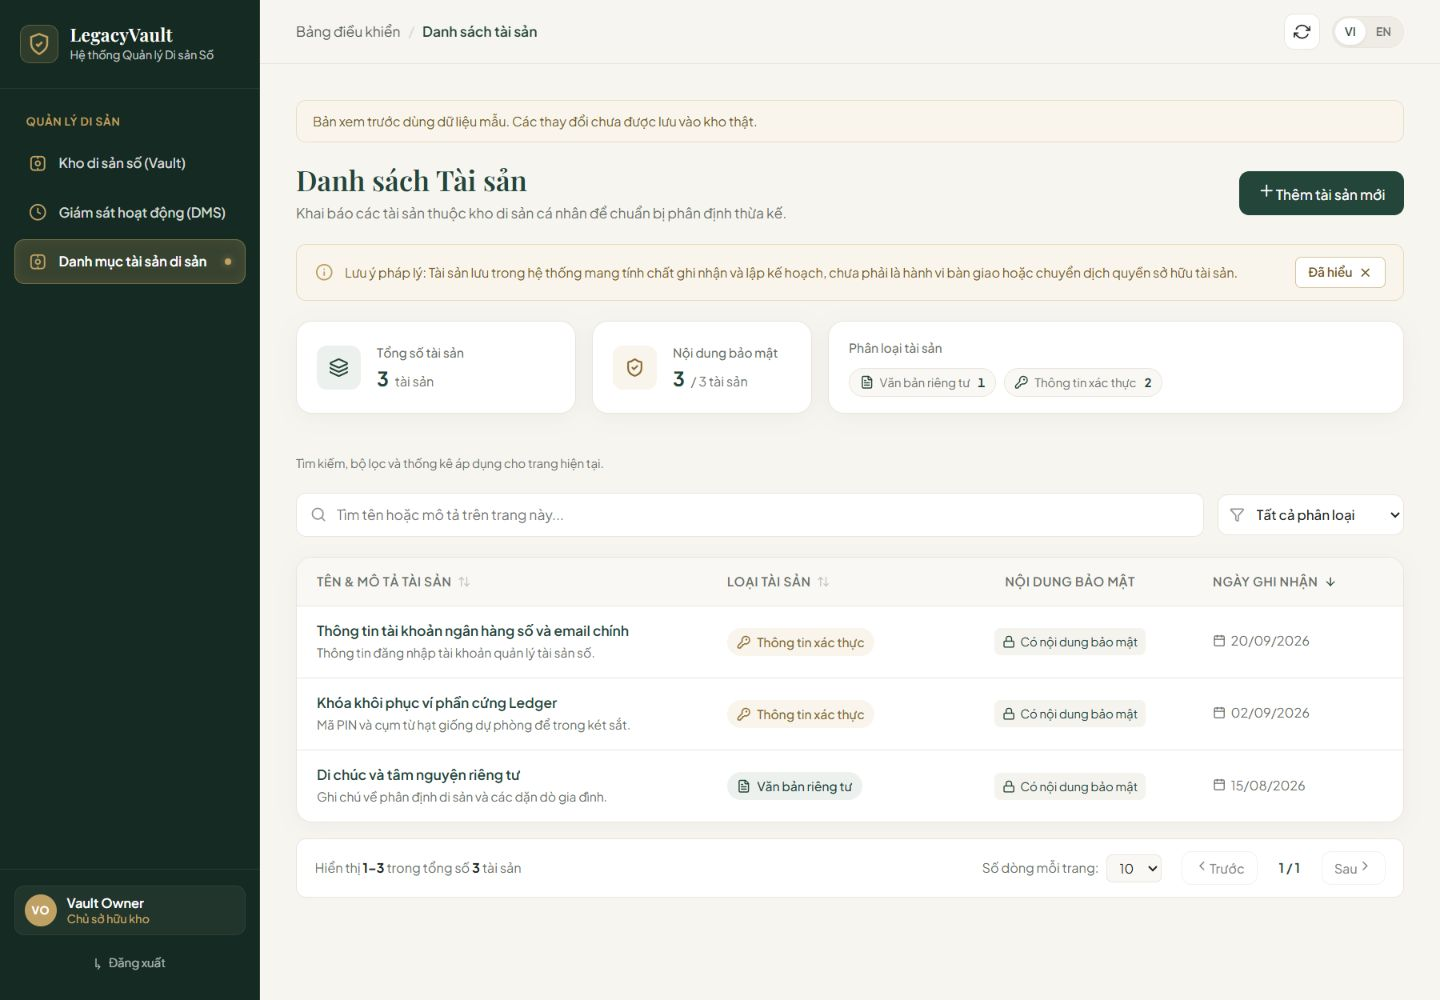
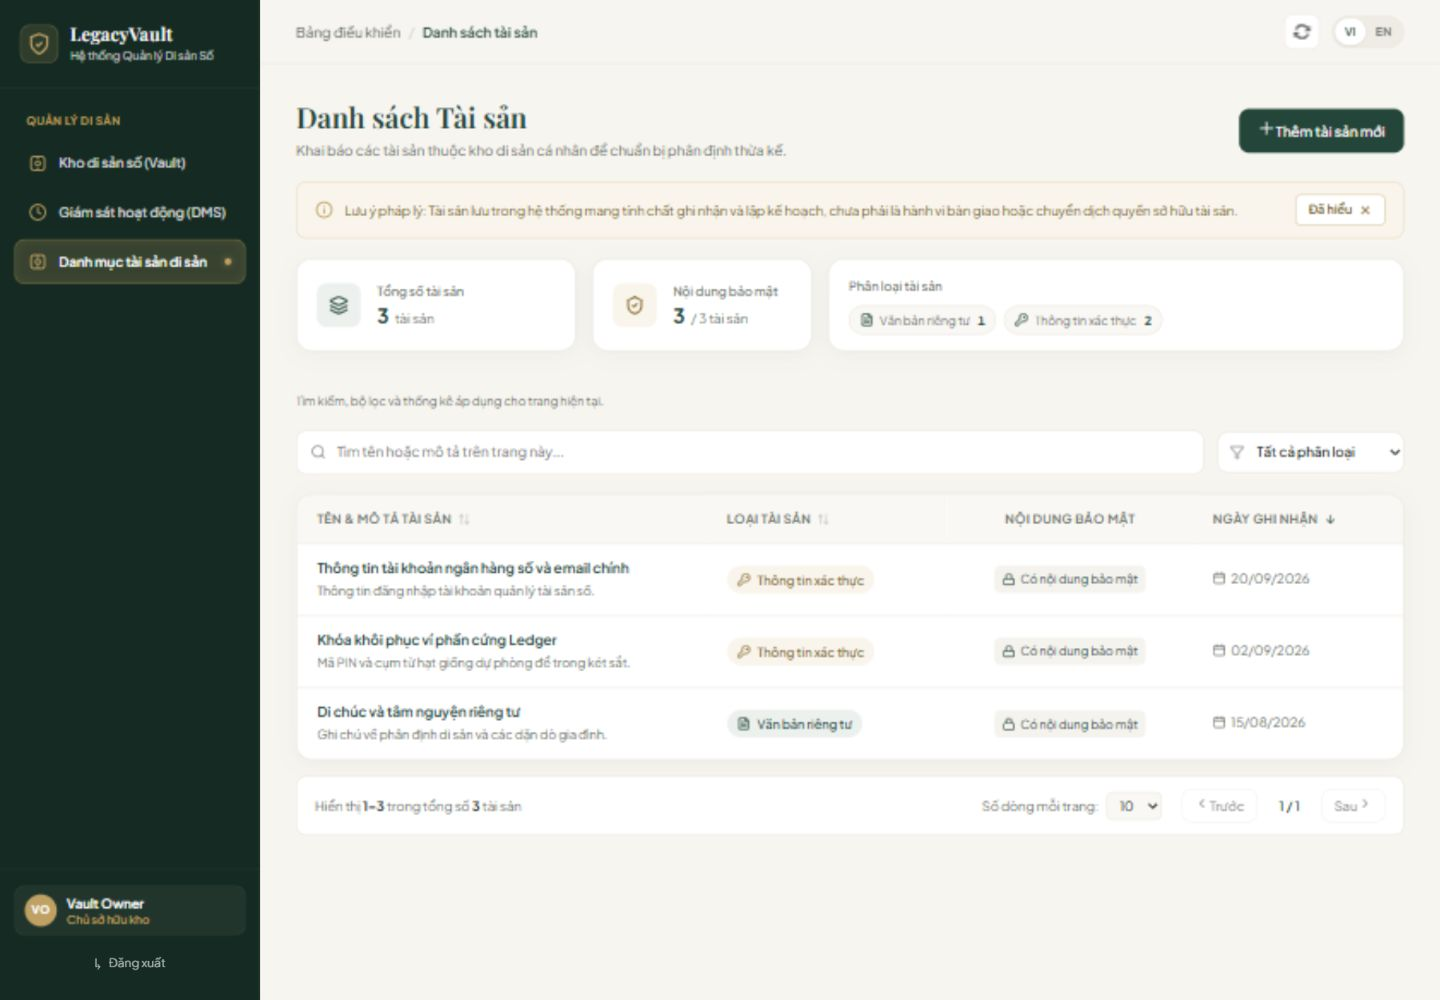
style(PS-5): remove preview copy from presentation UI

diff --git a/frontend/src/i18n/translations.js b/frontend/src/i18n/translations.js
@@ -16,7 +16,6 @@ export const translations = {
     },
     assets: {
       title: 'Danh sách Tài sản',
-      previewNotice: 'Bản xem trước dùng dữ liệu mẫu. Các thay đổi chưa được lưu vào kho thật.',
       pageScope: 'Tìm kiếm, bộ lọc và thống kê áp dụng cho trang hiện tại.',
       signIn: 'Đăng nhập lại',
       subtitle: 'Khai báo các tài sản thuộc kho di sản cá nhân để chuẩn bị phân định thừa kế.',
@@ -95,7 +94,6 @@ export const translations = {
         payloadRequired: 'Vui lòng nhập nội dung bí mật.',
       },
       alerts: {
-        previewSaved: 'Đã thêm tài sản vào bản xem trước. Chưa lưu vào kho thật.',
         BACKEND_NOT_READY: 'Dịch vụ tài sản chưa sẵn sàng. Vui lòng thử lại sau.',
         UNAUTHENTICATED: 'Phiên làm việc đã hết hạn hoặc chưa đăng nhập.',
         ACCESS_DENIED: 'Bạn không có quyền truy cập tài sản trong kho này.',
@@ -104,7 +102,7 @@ export const translations = {
         VALIDATION_FAILED: 'Thông tin tài sản chưa hợp lệ. Vui lòng kiểm tra lại.',
         NETWORK_ERROR: 'Không thể kết nối máy chủ. Vui lòng kiểm tra mạng và thử lại.',
         SERVER_ERROR: 'Máy chủ gặp sự cố. Vui lòng thử lại sau.',
-        addSuccess: 'Tài sản đã được thêm thành công vào kho di sản.',
+        addSuccess: 'Đã thêm tài sản vào danh sách.',
         loadError: 'Không thể tải danh sách tài sản. Vui lòng thử lại sau.',
         saveError: 'Đã xảy ra lỗi khi lưu tài sản. Vui lòng kiểm tra lại.',
         retryBtn: 'Thử lại',
@@ -128,7 +126,6 @@ export const translations = {
     },
     assets: {
       title: 'Asset Inventory',
-      previewNotice: 'Preview with sample data. Changes are not saved to your real vault.',
       pageScope: 'Search, filters and summaries apply to the current page.',
       signIn: 'Sign in again',
       subtitle: 'Record and organize assets within your vault to prepare for succession planning.',
@@ -207,7 +204,6 @@ export const translations = {
         payloadRequired: 'Confidential payload is required.',
       },
       alerts: {
-        previewSaved: 'Asset added to preview. It has not been saved to your real vault.',
         BACKEND_NOT_READY: 'The asset service is not ready. Please try again later.',
         UNAUTHENTICATED: 'Your session has expired or you are not signed in.',
         ACCESS_DENIED: 'You do not have access to assets in this vault.',
@@ -216,7 +212,7 @@ export const translations = {
         VALIDATION_FAILED: 'Asset information is invalid. Please check the form.',
         NETWORK_ERROR: 'Unable to reach the server. Check your connection and retry.',
         SERVER_ERROR: 'The server encountered a problem. Please try again later.',
-        addSuccess: 'Asset successfully recorded into your vault.',
+        addSuccess: 'Asset added to the list.',
         loadError: 'Failed to retrieve asset inventory. Please try again.',
         saveError: 'An error occurred while saving the asset. Please try again.',
         retryBtn: 'Retry',

diff --git a/frontend/src/pages/assets/AssetManagementPage.jsx b/frontend/src/pages/assets/AssetManagementPage.jsx
@@ -10,7 +10,7 @@ import {
   CheckCircle2,
   X,
 } from 'lucide-react'
-import { assetService, isAssetPreview } from '../../services/assetService'
+import { assetService } from '../../services/assetService'
 import { Button } from '../../components/common/Button'
 import { Modal } from '../../components/common/Modal'
 import { AssetListTable } from '../../components/assets/AssetListTable'
@@ -27,7 +27,6 @@ const LEGAL_DISMISSED_KEY = 'legacyvault_legal_notice_dismissed'
  */
 export function AssetManagementPage({ t, lang = 'vi', vaultId, accessToken,
   isDevPreview = false, onNavigateToLogin, onRefreshTrigger = 0 }) {
-  const preview = isAssetPreview({ isDevPreview })
   const [query, setQuery] = useState({ page: 0, size: 10, sort: 'createdAt,desc' })
   const [totalElements, setTotalElements] = useState(0)
   const [retry, setRetry] = useState(0)
@@ -119,7 +118,7 @@ export function AssetManagementPage({ t, lang = 'vi', vaultId, accessToken,
       setSearchQuery('')
       setSelectedAssetType('ALL')
       setQuery(prev => ({ ...prev, page: 0, sort: 'createdAt,desc' }))
-      showToast(preview ? 'previewSaved' : 'addSuccess')
+      showToast('addSuccess')
     } catch (error) {
       if (aliveRef.current) showToast(error.code || 'saveError', 'error')
     } finally {
@@ -163,7 +162,6 @@ export function AssetManagementPage({ t, lang = 'vi', vaultId, accessToken,
         </div>
       )}
 
-      {preview && <p className="lv-preview-notice" role="note">{t.assets.previewNotice}</p>}
       {/* Page Header */}
       <div className="lv-page-header">
         <div className="lv-page-header__left">

diff --git a/frontend/src/App.test.jsx b/frontend/src/App.test.jsx
@@ -14,7 +14,8 @@ afterEach(() => { vi.restoreAllMocks(); vi.unstubAllEnvs(); window.history.repla
 it('keeps Assets, Vault and DMS connected through the shared shell', async () => {
   window.history.replaceState({}, '', '/assets?preview=true')
   render(<App />)
-  expect(await screen.findByText(/Bản xem trước dùng dữ liệu mẫu/)).toBeInTheDocument()
+  expect(await screen.findByText('Chưa có tài sản nào trong kho')).toBeInTheDocument()
+  expect(screen.queryByText(/Bản xem trước|Preview with sample data/)).not.toBeInTheDocument()
   fireEvent.click(screen.getByRole('button', { name: 'Kho di sản số (Vault)' }))
   expect(screen.getByText('Vault route test')).toBeInTheDocument()
   fireEvent.click(screen.getByRole('button', { name: 'Giám sát hoạt động (DMS)' }))

diff --git a/frontend/src/pages/assets/AssetManagementPage.css b/frontend/src/pages/assets/AssetManagementPage.css
@@ -387,7 +387,6 @@
 }
 
 .lv-asset-page { max-width: 1120px; margin: 0 auto; padding-bottom: 40px; }
-.lv-asset-page .lv-preview-notice { padding: 10px 16px; background: var(--lv-accent-gold-subtle); border: 1px solid var(--lv-accent-gold-border); border-radius: 10px; font-size: 13px; color: #76591e; }
 .lv-asset-page .lv-filter-scope { font-size: 12px; color: var(--lv-text-muted); }
 .lv-asset-page .lv-mobile-fab:disabled { opacity: .5; cursor: not-allowed; }
 @media (prefers-reduced-motion: reduce) {
